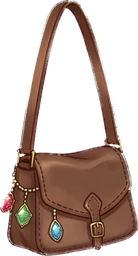
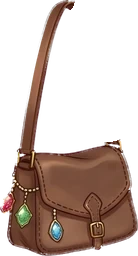
feat(rig): apply the hand-tuned fit; no capes; thighs stay under the skirt
- Fit from the rig editor: capes, capelet and the separate neck hidden in
  every view, parts repositioned per view, painted edits baked into the
  assets (bag pieces behind the body, back-view legs trimmed).
- Linings hide with their garment; hidden parts are not downloaded.
- Side view: walking thighs are drawn only below the skirt hem, so they no
  longer poke out through the skirt's sides.
- Rig editor starts from the game's values (fresh local storage keys).

Claude-Session: https://claude.ai/code/session_0178JCr5DuUpPvDwy7b6AxGM

Changed region(s): [[0.4928, 0.0, 0.8696, 0.5625]]

diff --git a/tools/rig-editor/template.html b/tools/rig-editor/template.html
@@ -117,7 +117,7 @@ kbd{font-family:var(--mono);font-size:11px;border:1px solid var(--line);border-b
       <pre id="out"></pre>
       <div class="actions" style="margin-top:8px">
         <button class="btn primary" id="copy">값 복사</button>
-        <button class="btn warn" id="resetAll">전체 되돌리기</button>
+        <button class="btn warn" id="resetAll">게임 값으로 되돌리기</button>
       </div>
       <p class="note" id="copyNote">세 방향을 다 맞춘 뒤 한 번에 복사해도 돼. 작업은 이 브라우저에 자동 저장돼.</p></div>
     <div class="keys"><span><kbd>←↑→↓</kbd> 1칸 이동 (<kbd>Shift</kbd> 5칸) · <kbd>[</kbd> <kbd>]</kbd> 회전 · <kbd>-</kbd> <kbd>=</kbd> 크기</span><span><kbd>Ctrl</kbd>+<kbd>Z</kbd> 실행 취소</span></div>
@@ -136,15 +136,15 @@ const KEYS = {
   front:["head","hair","neck","torso","capelet","cape","sleeveL","forearmL","sleeveR","forearmR","bag","skirt","thighL","shinL","thighR","shinR"],
   side:["head","hair","neck","torso","capelet","cape","armNear","armFar","bag","skirt","thighNear","shinNear","thighFar","shinFar"],
   back:["head","neck","torso","capelet","cape","sleeveL","forearmL","sleeveR","forearmR","bag","skirt","thighL","shinL","thighR","shinR"]};
-const STORE = "bloomodoro-rig-editor-v1";
-let adjust = {front:{},side:{},back:{}};
+const STORE = "bloomodoro-rig-editor-v2";
+let adjust = JSON.parse(JSON.stringify(RIG_ADJUST)); // starts from what the game uses
 try { const s = JSON.parse(localStorage.getItem(STORE) || "null"); if (s && s.front) adjust = s; } catch {}
 let view = "front", flip = false, selected = "neck", walking = false, ghost = false, zoom = false, guide = true;
 const undoStack = [];
 let tool = "move", brush = 22, hover = null;
 // ---- paint masks per asset (part.name): erase = removed, back = drawn behind the body
 const masks = {};
-const MASK_STORE = "bloomodoro-rig-editor-masks-v1";
+const MASK_STORE = "bloomodoro-rig-editor-masks-v2";
 function canvasOf(w, h) { const c = document.createElement("canvas"); c.width = w; c.height = h; return c; }
 function partsByName() { const o = {}; for (const v of ["front", "side", "back"]) for (const p of Object.values(AVATAR_RIG_PARTS[v])) if (p && p.name) o[p.name] = p; return o; }
 function maskFor(part, create) {
@@ -363,8 +363,8 @@ function undo() { const s = undoStack.pop(); if (s) { adjust = JSON.parse(s); sy
 document.getElementById("undo").onclick = undo;
 const resetAll = document.getElementById("resetAll"); let armed = 0;
 resetAll.onclick = () => {
-  if (Date.now() - armed > 3000) { armed = Date.now(); resetAll.textContent = "한 번 더 누르면 전부 되돌려"; setTimeout(() => resetAll.textContent = "전체 되돌리기", 3000); return; }
-  snapshot(); adjust = { front: {}, side: {}, back: {} }; resetAll.textContent = "전체 되돌리기"; armed = 0; sync();
+  if (Date.now() - armed > 3000) { armed = Date.now(); resetAll.textContent = "한 번 더 누르면 전부 되돌려"; setTimeout(() => resetAll.textContent = "게임 값으로 되돌리기", 3000); return; }
+  snapshot(); adjust = JSON.parse(JSON.stringify(RIG_ADJUST)); resetAll.textContent = "게임 값으로 되돌리기"; armed = 0; sync();
 };
 document.getElementById("copy").onclick = async () => {
   const txt = exportFull(), note = document.getElementById("copyNote");

diff --git a/sw.js b/sw.js
@@ -39,21 +39,22 @@ const PRECACHE_URLS = [
   "./assets/art/avatar/portraits/portrait.webp",
   // Phase 4G painted rig parts (needed offline for the player character). Other
   // painted art is cached on first view by the stale-while-revalidate handler.
-  "./assets/art/avatar/back/bag.webp",
+  "./assets/art/avatar/back/bag.webp?v=2",
+  "./assets/art/avatar/back/bag_back.webp?v=40872",
   "./assets/art/avatar/back/cape.webp?v=2",
   "./assets/art/avatar/back/capelet.webp",
   "./assets/art/avatar/back/forearm_left.webp?v=2",
   "./assets/art/avatar/back/forearm_right.webp?v=2",
   "./assets/art/avatar/back/head.webp",
-  "./assets/art/avatar/back/leg_left.webp",
-  "./assets/art/avatar/back/leg_right.webp",
+  "./assets/art/avatar/back/leg_left.webp?v=2",
+  "./assets/art/avatar/back/leg_right.webp?v=2",
   "./assets/art/avatar/back/neck.webp",
   "./assets/art/avatar/back/skirt.webp",
   "./assets/art/avatar/back/sleeve_left.webp?v=3",
   "./assets/art/avatar/back/sleeve_right.webp?v=3",
   "./assets/art/avatar/back/torso.webp",
   "./assets/art/avatar/boots/back_left.webp",
-  "./assets/art/avatar/boots/back_right.webp",
+  "./assets/art/avatar/boots/back_right.webp?v=2",
   "./assets/art/avatar/boots/front_left.webp",
   "./assets/art/avatar/boots/front_right.webp",
   "./assets/art/avatar/boots/side_far.webp",
@@ -65,8 +66,9 @@ const PRECACHE_URLS = [
   "./assets/art/avatar/expressions/head_neutral.webp?v=2",
   "./assets/art/avatar/expressions/head_surprised.webp?v=2",
   "./assets/art/avatar/front/bag.webp",
-  "./assets/art/avatar/front/cape.webp?v=4",
-  "./assets/art/avatar/front/capelet.webp?v=2",
+  "./assets/art/avatar/front/cape.webp?v=5",
+  "./assets/art/avatar/front/cape_back.webp?v=14134",
+  "./assets/art/avatar/front/capelet.webp?v=3",
   "./assets/art/avatar/front/capelet_inner.webp?v=2",
   "./assets/art/avatar/front/forearm_left.webp",
   "./assets/art/avatar/front/forearm_right.webp",
@@ -81,7 +83,8 @@ const PRECACHE_URLS = [
   "./assets/art/avatar/front/torso.webp",
   "./assets/art/avatar/side/arm_far.webp",
   "./assets/art/avatar/side/arm_near.webp",
-  "./assets/art/avatar/side/bag.webp",
+  "./assets/art/avatar/side/bag.webp?v=2",
+  "./assets/art/avatar/side/bag_back.webp?v=7391",
   "./assets/art/avatar/side/cape.webp?v=3",
   "./assets/art/avatar/side/cape_left.webp?v=2",
   "./assets/art/avatar/side/capelet.webp?v=2",

diff --git a/tools/rig-editor/build.py b/tools/rig-editor/build.py
@@ -17,7 +17,8 @@ data = re.sub(r'"src": "(assets/art/[^"]+\.webp(?:\?v=\d+)?)"',
               lambda m: '"src": "' + uri(m.group(1)) + '", "name": "' + m.group(1).split("?")[0] + '"', data)
 data = re.sub(r'(?<!"name": )"(assets/art/[^"]+\.webp(?:\?v=\d+)?)"', lambda m: '"' + uri(m.group(1)) + '"', data)
 rig = (ROOT / "garden/avatar-rig.mjs").read_text()
-code = "\n".join(l for l in (data + "\nconst RIG_ADJUST = { front: {}, side: {}, back: {} };\n" + rig).splitlines()
+adjust = re.sub(r"^export ", "", (ROOT / "garden/avatar-rig-adjust.mjs").read_text(), flags=re.M)
+code = "\n".join(l for l in (data + "\n" + adjust + "\n" + rig).splitlines()
                  if not l.startswith("import "))
 code = re.sub(r"^export ", "", code, flags=re.M)
 page = (ROOT / "tools/rig-editor/template.html").read_text().replace("/*__RIG__*/", code)
